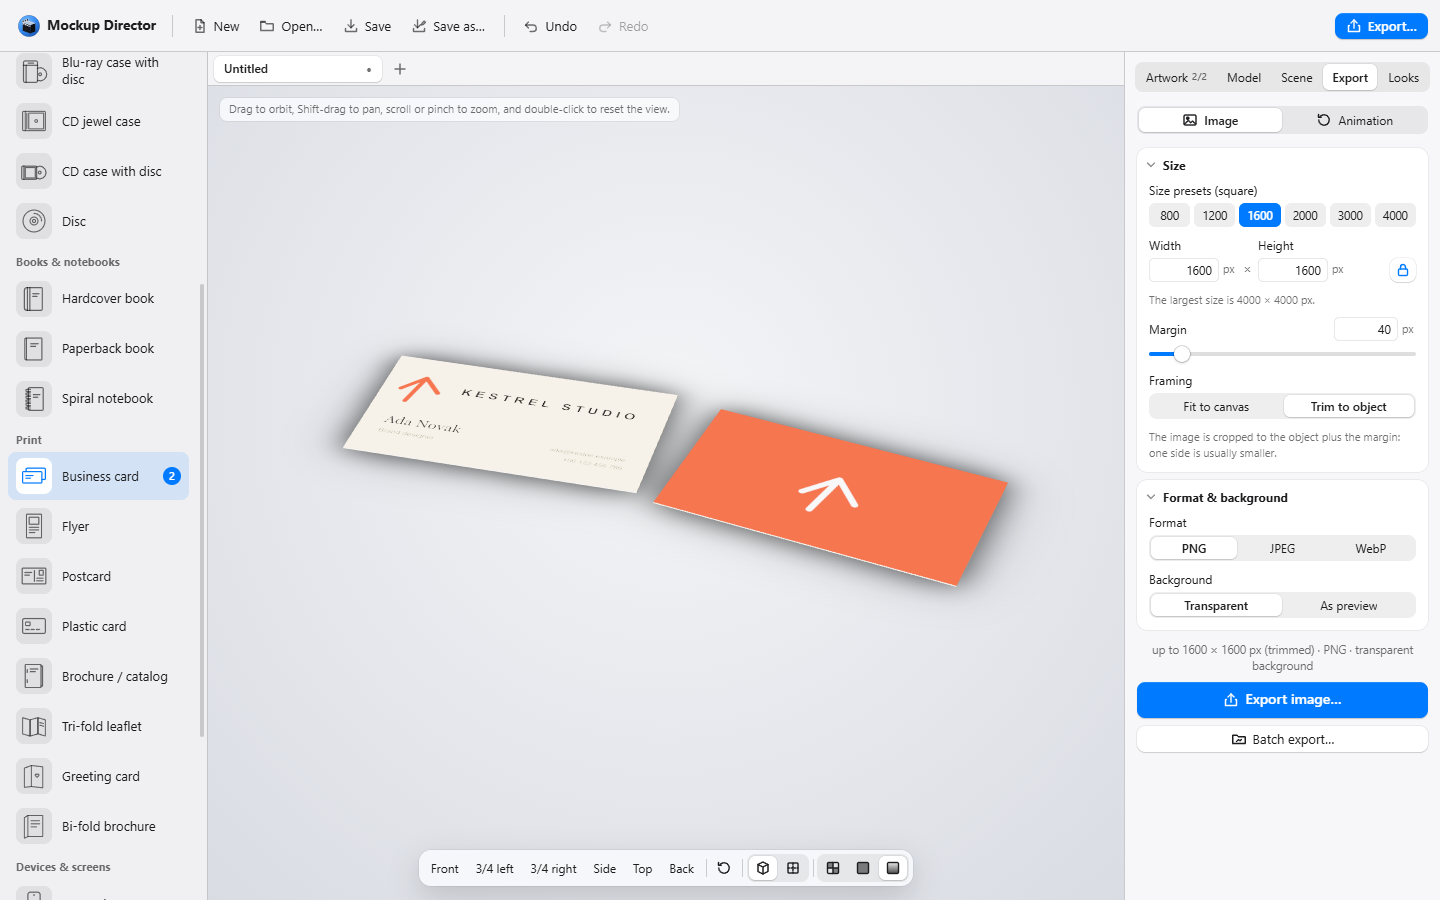
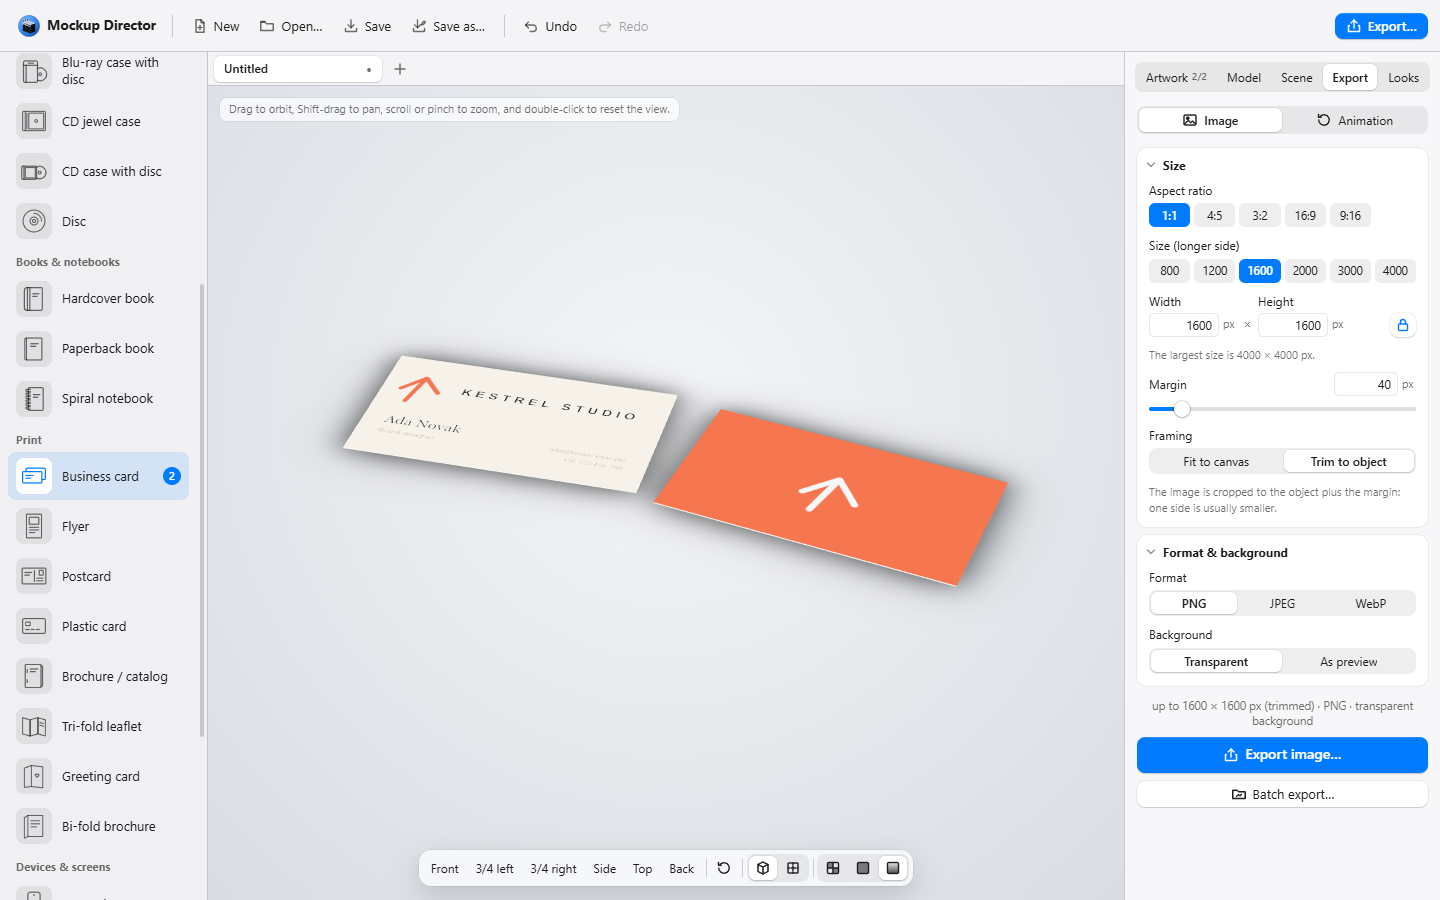
feat(export): offer aspect ratio presets beside the size presets
The Export tab's square size presets become two rows: the aspect ratio
(1:1, 4:5, 3:2, 16:9, 9:16), which keeps the longer side, and the size of
the longer side, which keeps the aspect ratio. So 16:9 then 1920 gives
1920 × 1080. Both the image and the animation export have them.

diff --git a/src/ui/panels/export/size.ts b/src/ui/panels/export/size.ts
@@ -1,6 +1,6 @@
 /**
- * The size controls both export types share: square size presets, width and height fields that can keep the
- * aspect ratio, and the lock that does it.
+ * The size controls both export types share: aspect ratio presets, size presets for the longer side, width and
+ * height fields that can keep the aspect ratio, and the lock that does it.
  */
 import { MAX_EXPORT_SIZE, MIN_ANIMATION_SIZE } from '../../../core/defaults';
 import { clamp } from '../../../core/math';
@@ -14,6 +14,41 @@ import { animationOf, stillOf, updateAnimation, updateStill } from './settings';
 
 const MIN_SIZE = 16;
 const LOCK_KEY = 'mockup-director.ui.lockAspect';
+
+/** An aspect ratio offered as a preset, width : height. */
+export interface AspectPreset {
+  w: number;
+  h: number;
+  title: string;
+}
+
+export const ASPECT_PRESETS: AspectPreset[] = [
+  { w: 1, h: 1, title: 'Square' },
+  { w: 4, h: 5, title: 'Portrait' },
+  { w: 3, h: 2, title: 'Landscape' },
+  { w: 16, h: 9, title: 'Widescreen' },
+  { w: 9, h: 16, title: 'Tall, as for stories' },
+];
+
+/** The width and height in the ratio of `preset` with `longSide` px on the longer side. */
+export function presetSize(longSide: number, preset: AspectPreset): [number, number] {
+  return preset.w >= preset.h
+    ? [longSide, Math.round((longSide * preset.h) / preset.w)]
+    : [Math.round((longSide * preset.w) / preset.h), longSide];
+}
+
+/** Whether the size is the aspect preset at its longer side. */
+export function hasAspect(width: number, height: number, preset: AspectPreset): boolean {
+  const [w, h2] = presetSize(Math.max(width, height), preset);
+  return w === width && h2 === height;
+}
+
+/** The size scaled so that its longer side is `longSide` px, keeping its aspect ratio. */
+export function withLongSide(width: number, height: number, longSide: number): [number, number] {
+  const long = Math.max(width, height);
+  if (long <= 0) return [longSide, longSide];
+  return [Math.round((width * longSide) / long), Math.round((height * longSide) / long)];
+}
 
 /** Width / height pair edited by the dimension fields (still image or animation). */
 export interface DimTarget {
@@ -150,42 +185,83 @@ function lockButton(lock: AspectLock): HTMLButtonElement {
   return lockBtn;
 }
 
-/** Square size preset chips; presets above the target's limit are grayed out. */
-function sizeChips(presets: number[], target: DimTarget, add: AddControl): HTMLElement {
-  const chips = h('div', { class: 'chips', attrs: { role: 'group', 'aria-label': 'Size presets (square)' } });
-  const chipButtons = presets.map((n) => {
+/** A row of preset chips with its label; `isOn` marks the chip of the current size, `isOff` grays one out. */
+function chipRow(
+  label: string,
+  chips: { text: string; title: string; apply(): void; isOn(): boolean; isOff(): boolean }[],
+  add: AddControl,
+): HTMLElement {
+  const group = h('div', { class: 'chips', attrs: { role: 'group', 'aria-label': label } });
+  const buttons = chips.map((c) => {
     const b = h('button', {
       class: 'chip',
-      text: `${n}`,
-      title: `${n} × ${n} px`,
+      text: c.text,
+      title: c.title,
       attrs: { type: 'button' },
-      on: { click: () => target.set(n, n) },
+      on: { click: c.apply },
     });
-    chips.appendChild(b);
+    group.appendChild(b);
     return b;
   });
   add({
-    el: chips,
+    el: group,
     sync: () =>
-      chipButtons.forEach((b, i) => {
-        const n = presets[i];
-        const on = target.get('width') === n && target.get('height') === n;
+      buttons.forEach((b, i) => {
+        const c = chips[i];
+        if (!c) return;
+        const on = c.isOn();
         b.classList.toggle('active', on);
         b.setAttribute('aria-pressed', String(on));
-        b.disabled = n > target.max();
+        b.disabled = c.isOff();
       }),
   });
-  return chips;
+  return h('div', { class: 'ctl' }, h('div', { class: 'ctl-label', text: label }), group);
 }
 
-/** The size preset chips, and the width × height fields with the lock button; adds chips, width, height. */
+/** The aspect ratio chips: each keeps the longer side. */
+function aspectChips(target: DimTarget, add: AddControl): HTMLElement {
+  const size = (): [number, number] => [target.get('width'), target.get('height')];
+  return chipRow(
+    'Aspect ratio',
+    ASPECT_PRESETS.map((p) => ({
+      text: `${p.w}:${p.h}`,
+      title: p.title,
+      apply: () => target.set(...presetSize(Math.max(...size()), p)),
+      isOn: () => hasAspect(...size(), p),
+      isOff: () => false,
+    })),
+    add,
+  );
+}
+
+/** The size chips: each sets the longer side and keeps the aspect ratio; sizes above the target's limit are grayed out. */
+function sizeChips(presets: number[], target: DimTarget, add: AddControl): HTMLElement {
+  const size = (): [number, number] => [target.get('width'), target.get('height')];
+  return chipRow(
+    'Size (longer side)',
+    presets.map((n) => ({
+      text: `${n}`,
+      title: `${n} px on the longer side`,
+      apply: () => target.set(...withLongSide(...size(), n)),
+      isOn: () => Math.max(...size()) === n,
+      isOff: () => n > target.max(),
+    })),
+    add,
+  );
+}
+
+/**
+ * The aspect ratio and size preset rows, and the width × height fields with the lock button; adds the chips and
+ * the fields.
+ */
 export function sizeRows(
   presets: number[],
   target: DimTarget,
   lock: AspectLock,
   add: AddControl,
-): { chips: HTMLElement; dims: HTMLElement } {
-  const chips = sizeChips(presets, target, add);
+): { aspects: HTMLElement; sizes: HTMLElement; dims: HTMLElement } {
+  const aspects = aspectChips(target, add);
+  const sizes = sizeChips(presets, target, add);
   const wField = add(dimField('width', target, lock));
   const hField = add(dimField('height', target, lock));
   const dims = h(
@@ -196,5 +272,5 @@ export function sizeRows(
     hField.el,
     lockButton(lock),
   );
-  return { chips, dims };
+  return { aspects, sizes, dims };
 }

diff --git a/tests/ui/panels/export/size.test.ts b/tests/ui/panels/export/size.test.ts
@@ -1,6 +1,61 @@
-/** Tests the size the Export tab's width and height fields set when the user types a value, with and without the lock. */
+/**
+ * Tests the sizes the Export tab sets: from the aspect ratio and size presets, and when the user types a value into
+ * the width and height fields, with and without the lock.
+ */
 import { describe, expect, it } from 'vitest';
-import { typedSize } from '../../../../src/ui/panels/export/size';
+import {
+  ASPECT_PRESETS,
+  type AspectPreset,
+  hasAspect,
+  presetSize,
+  typedSize,
+  withLongSide,
+} from '../../../../src/ui/panels/export/size';
+
+const preset = (w: number, h: number): AspectPreset => {
+  const found = ASPECT_PRESETS.find((p) => p.w === w && p.h === h);
+  if (!found) throw new Error(`No aspect preset ${w}:${h}.`);
+  return found;
+};
+
+describe('presetSize', () => {
+  it('puts the longer side on width for landscape and on height for portrait ratios', () => {
+    expect(presetSize(1600, preset(1, 1))).toEqual([1600, 1600]);
+    expect(presetSize(1920, preset(16, 9))).toEqual([1920, 1080]);
+    expect(presetSize(1920, preset(9, 16))).toEqual([1080, 1920]);
+    expect(presetSize(1350, preset(4, 5))).toEqual([1080, 1350]);
+    expect(presetSize(3000, preset(3, 2))).toEqual([3000, 2000]);
+  });
+
+  it('rounds the shorter side', () => {
+    expect(presetSize(1001, preset(1, 1))).toEqual([1001, 1001]);
+    expect(presetSize(1000, preset(16, 9))).toEqual([1000, 563]);
+  });
+});
+
+describe('hasAspect', () => {
+  it('finds the preset a size has, and only that one', () => {
+    const matching = (w: number, h: number) =>
+      ASPECT_PRESETS.filter((p) => hasAspect(w, h, p)).map((p) => `${p.w}:${p.h}`);
+    expect(matching(1920, 1080)).toEqual(['16:9']);
+    expect(matching(1080, 1350)).toEqual(['4:5']);
+    expect(matching(1000, 563)).toEqual(['16:9']);
+    expect(matching(1600, 1600)).toEqual(['1:1']);
+    expect(matching(1600, 1000)).toEqual([]);
+  });
+});
+
+describe('withLongSide', () => {
+  it('scales the size so that its longer side has the given length', () => {
+    expect(withLongSide(1920, 1080, 800)).toEqual([800, 450]);
+    expect(withLongSide(1080, 1350, 800)).toEqual([640, 800]);
+    expect(withLongSide(1600, 1000, 4000)).toEqual([4000, 2500]);
+  });
+
+  it('makes a square of a size without a side', () => {
+    expect(withLongSide(0, 0, 800)).toEqual([800, 800]);
+  });
+});
 
 const current = { width: 1600, height: 800 };
 

diff --git a/src/ui/panels/export/still.ts b/src/ui/panels/export/still.ts
@@ -77,7 +77,8 @@ export function stillSections(
   });
 
   const sizeSection = section('export.size', 'Size', [
-    h('div', { class: 'ctl' }, h('div', { class: 'ctl-label', text: 'Size presets (square)' }), rows.chips),
+    rows.aspects,
+    rows.sizes,
     rows.dims,
     h('p', { class: 'ctl-note', text: `The largest size is ${MAX_EXPORT_SIZE} × ${MAX_EXPORT_SIZE} px.` }),
     margin.el,

diff --git a/src/ui/panels/export/animation.ts b/src/ui/panels/export/animation.ts
@@ -180,7 +180,8 @@ export function animationSections(
     }),
   );
   const sizeSection = section('export.anim.size', 'Size', [
-    h('div', { class: 'ctl' }, h('div', { class: 'ctl-label', text: 'Size presets (square)' }), rows.chips),
+    rows.aspects,
+    rows.sizes,
     rows.dims,
     maxNote,
     evenNote,

diff --git a/docs/architecture.md b/docs/architecture.md
@@ -308,7 +308,8 @@ Each concept has one name, used everywhere. Where the interface or today's code 
 | View | A preset camera direction from the view bar or the keys 1–6: Front, 3/4 left, 3/4 right, Side, Top, Back. | `VIEW_PRESETS` in `src/scene/views.ts` |
 | Light preset | A built-in lighting setup picked in the Scene tab (Studio, Soft light, Dramatic …); it sets the light and may change the shadow and reflection. | `LightPreset`, `src/scene/lightPresets.ts`; its select in `src/ui/panels/scene/light.ts` |
 | Look | Named scene settings without the artwork or the model: light, shadow, reflection, background and, if saved with it, the camera. Built-in looks ship with the app; the user's own are saved, imported and exported in the Looks tab. | `Look`, `src/project/looks.ts`, `src/ui/panels/looks.ts`, the `looks` tab id, the `mockup-director.looks` key, the looks file `mockup-director-looks.json` |
-| Size preset | One of the square output sizes offered as chips in the Export tab. A model's paper sizes (A5, A6 …) are not size presets but options of its Size parameter. | `SIZE_PRESETS` in `src/ui/panels/export/still.ts`, `ANIM_SIZE_PRESETS` in `src/ui/panels/export/animation.ts` |
+| Size preset | One of the output sizes offered as chips in the Export tab, for the longer side: it keeps the aspect ratio. A model's paper sizes (A5, A6 …) are not size presets but options of its Size parameter. | `SIZE_PRESETS` in `src/ui/panels/export/still.ts`, `ANIM_SIZE_PRESETS` in `src/ui/panels/export/animation.ts` |
+| Aspect ratio preset | One of the aspect ratios (1:1, 4:5, 3:2, 16:9, 9:16) offered as chips in the Export tab: it keeps the longer side. | `ASPECT_PRESETS` in `src/ui/panels/export/size.ts` |
 | Inspector | The tabbed panel on the right: Artwork, Model, Scene, Export, Looks. | `src/ui/app/inspector.ts`, `src/ui/panels/` |
 | Project | One mockup: its model, the artwork and parameters of every model used in it, the scene and the export settings. Saved as a `.mdproj` file. | `ProjectFile`, `src/project/format.ts`; `DocumentState` while open |
 | Tab | One open project, in the strip above the viewport ("Open projects"). A tab is dirty while it has unsaved changes. | `src/documents/tabs.ts`, `src/ui/app/tabbar.ts` |

diff --git a/README.md b/README.md
@@ -144,7 +144,7 @@ The **Looks** tab has a few built-in looks (named scene settings: light, shadow,
 
 The **Export** tab makes:
 
-- **an image:** PNG (with transparency), JPEG or WebP, up to 4000 × 4000 px, with a margin. PNG and JPEG also store the print resolution (DPI) in the file.
+- **an image:** PNG (with transparency), JPEG or WebP, up to 4000 × 4000 px, square or in another aspect ratio (4:5, 3:2, 16:9, 9:16 or your own), with a margin. PNG and JPEG also store the print resolution (DPI) in the file.
 - **an animation:** the product turning a full 360° or swinging back and forth, as a GIF, animated WebP or MP4 (H.264), 1–20 seconds long. It starts from the current view and keeps the light, shadow and reflection, with one fixed framing so nothing is cropped. You can follow the progress and cancel.
 - **a batch:** many mockups in one ZIP file: many images in one side of a model, several views of the current project, or many project files at once.
 
